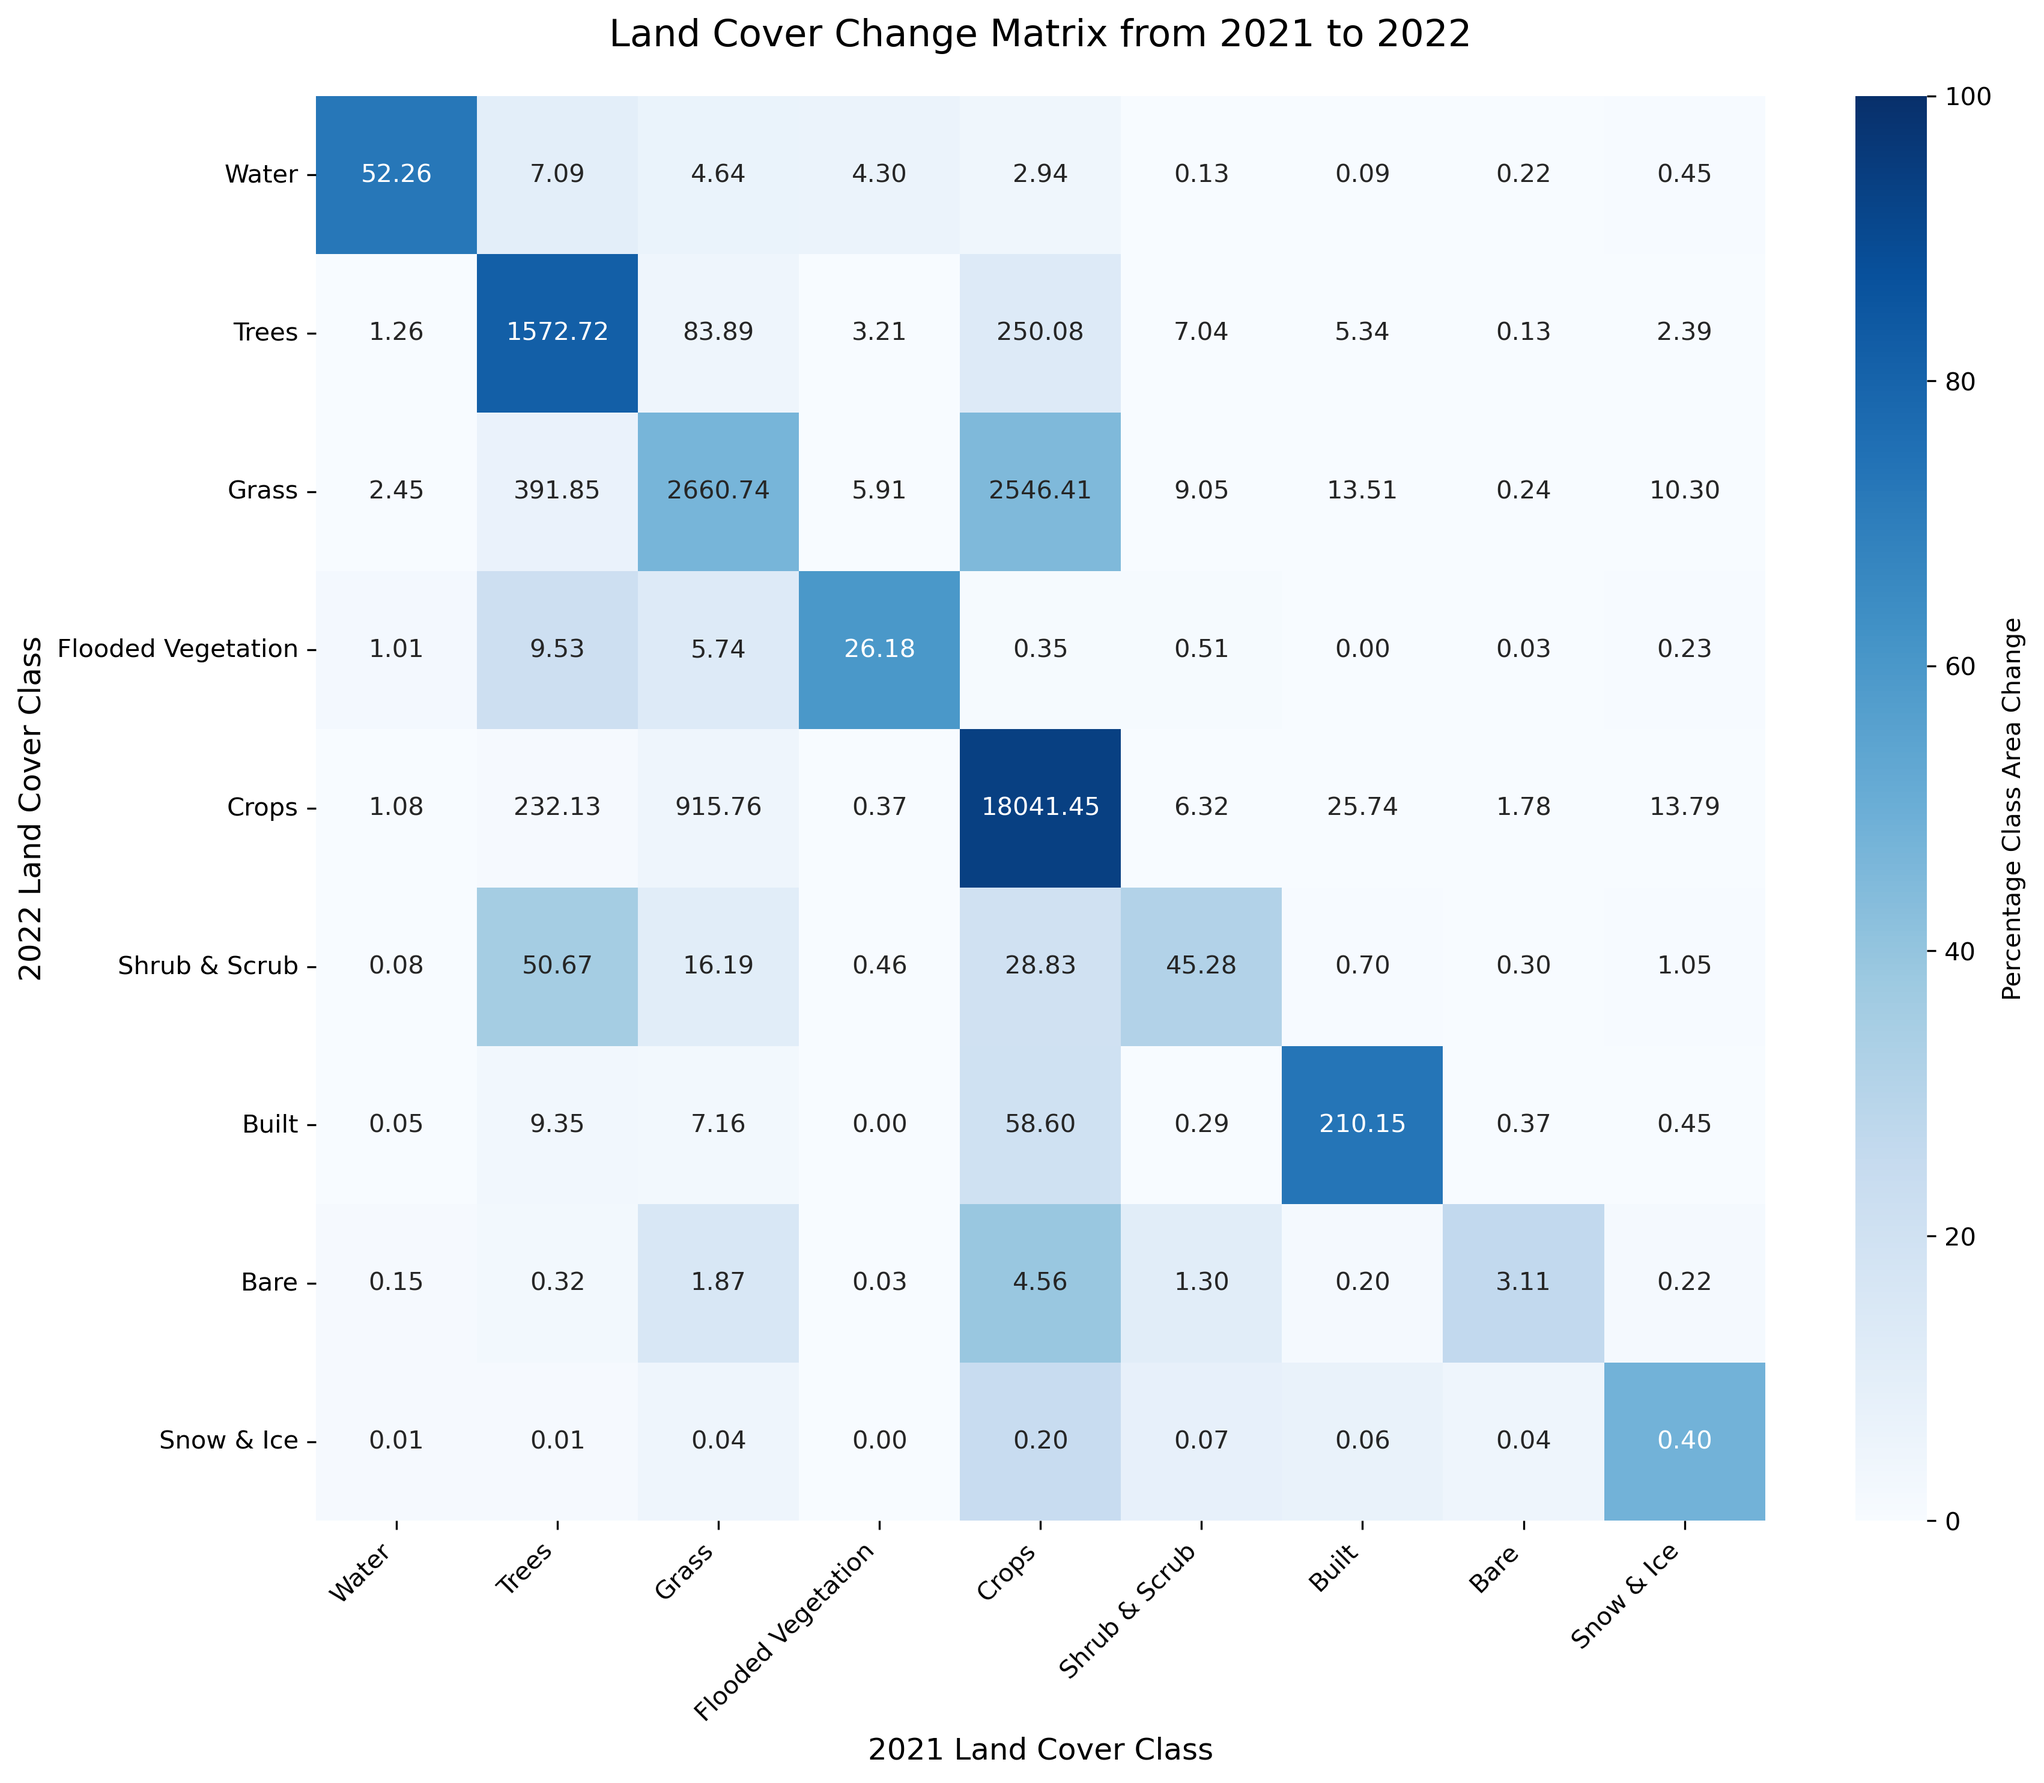
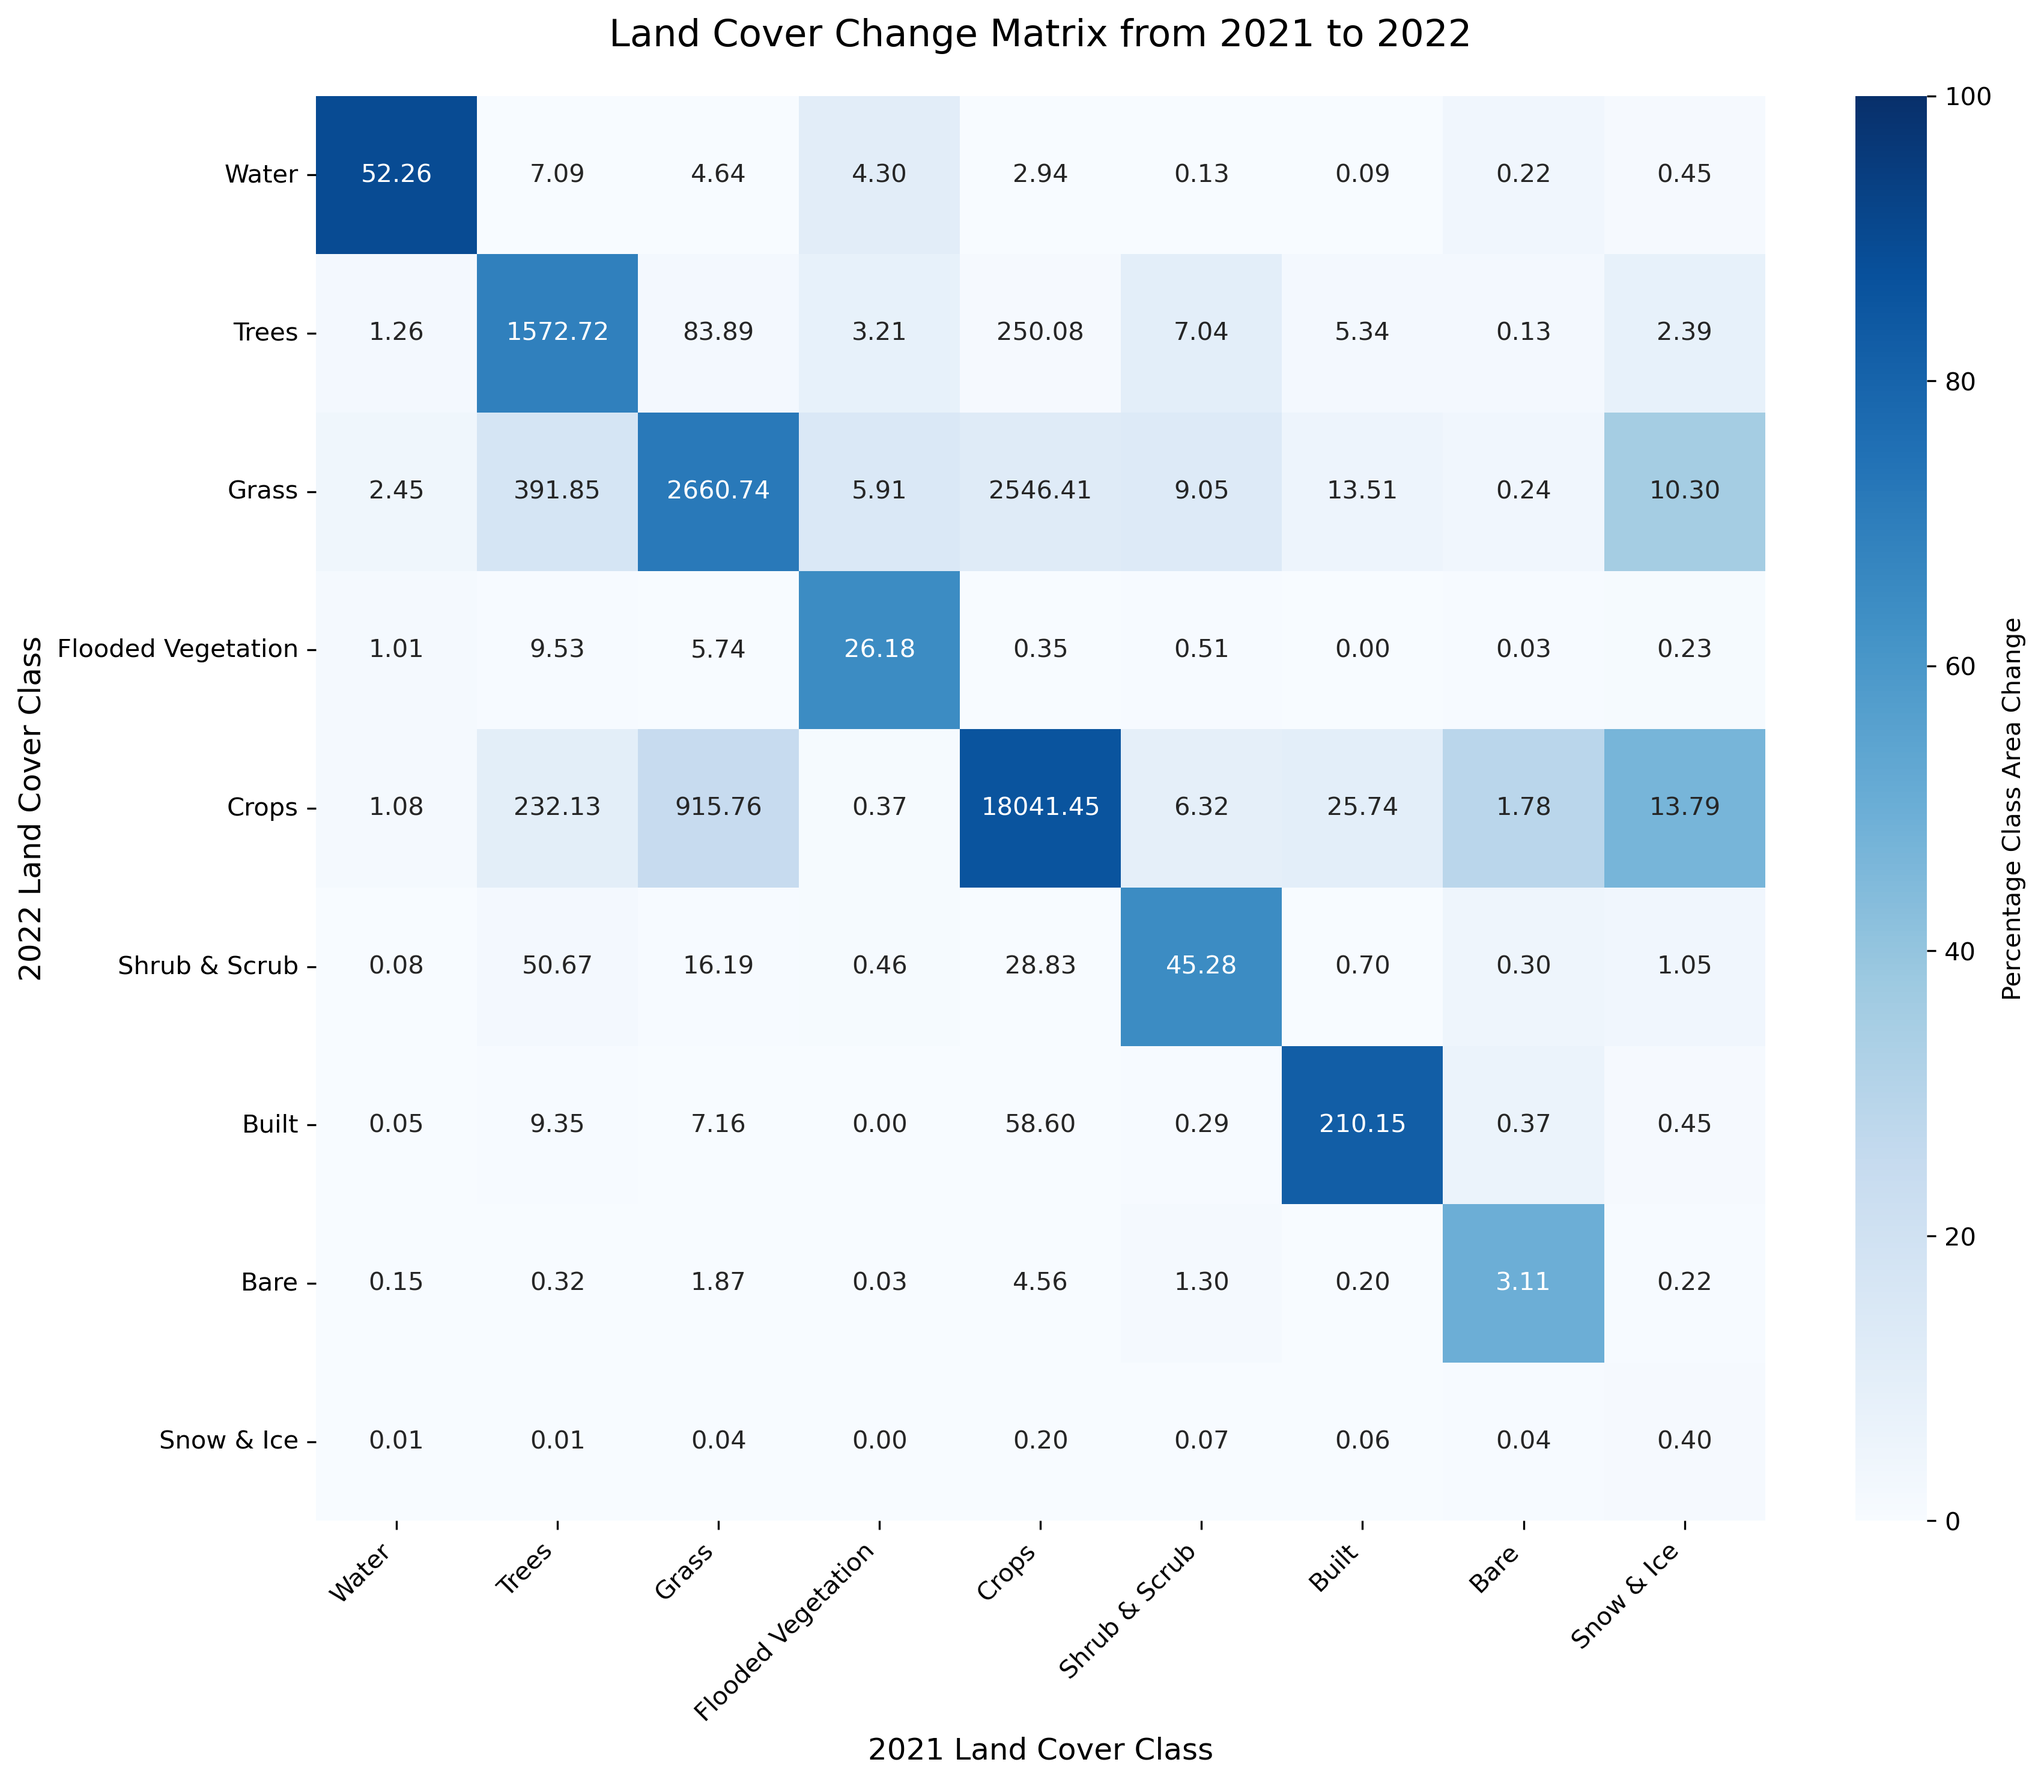
More Results

diff --git a/plot.py b/plot.py
@@ -3,11 +3,11 @@ import seaborn as sns
 import matplotlib.pyplot as plt
 
 def plot_change_matrix(year):
-    df = pd.read_csv('Results/ChangeMatrix' + str(year - 1) + '_' + str(year) + ".csv", index_col=0)
+    df = pd.read_csv('Results/ChangeMatrix20_25.csv', index_col=0)
 
     df_percent = pd.DataFrame()
-    row_sums = df.sum(axis=1)
-    df_percent = df.div(row_sums, axis=0) * 100
+    row_sums = df.sum(axis=0)
+    df_percent = df.div(row_sums, axis=1) * 100
 
     plt.figure(figsize=(12, 10))
     
@@ -19,13 +19,13 @@ def plot_change_matrix(year):
                 vmax=100,
                 cbar_kws={'label': 'Percentage Class Area Change'})
     
-    plt.title("Land Cover Change Matrix from 20" + str(year - 1) + " to 20" + str(year), fontsize=15, pad=20)
-    plt.xlabel("20" + str(year - 1) + " Land Cover Class", fontsize=12)
-    plt.ylabel("20" + str(year) + " Land Cover Class", fontsize=12)
+    plt.title("Land Cover Change Matrix from 2020 to 2025", fontsize=15, pad=20)
+    plt.xlabel("2020 Land Cover Class", fontsize=12)
+    plt.ylabel("2025 Land Cover Class", fontsize=12)
     plt.xticks(rotation=45, ha='right')
     
     plt.tight_layout()
-    plt.savefig('ChangeMatrix/ChangeMatrix' + str(year - 1) + '_' + str(year) + '.png', dpi=300, bbox_inches='tight')
+    plt.savefig('ChangeMatrix/ChangeMatrix20_25.png', dpi=300, bbox_inches='tight')
 
 def plot_change_count():
     df = pd.read_csv('Results/ChangeCountNoRSC20_25.csv', header=None, names=['Changes', 'Value'])
@@ -89,4 +89,4 @@ def plot_classifications_comparison():
     plt.tight_layout()
     plt.savefig('classifications_daa_comparison.png')
 
-plot_change_matrix(22)
+plot_change_matrix(21)

diff --git a/most_common_transtions.py b/most_common_transtions.py
@@ -1,0 +1,35 @@
+import pandas as pd
+import glob
+
+# 1. Get a list of all your transition CSV files
+# Adjust the pattern if your files have a specific naming convention (e.g., 'transition_*.csv')
+file_list = glob.glob("Results/ChangeMatrix2*.csv")
+
+# 2. Load and sum the dataframes
+# We use index_col=0 because the first column contains the 'From' class names
+dfs = [pd.read_csv(f, index_col=0) for f in file_list]
+combined_df = sum(dfs)
+
+# 3. Reshape the data to find the most common transitions
+# This converts the matrix into a list of: [Source Class, Target Class, Total Count]
+melted = combined_df.stack().reset_index()
+melted.columns = ['From_Class', 'To_Class', 'Total_Count']
+
+# 4. Identify most common transitions (excluding self-transitions/stability)
+# We filter out cases where 'From' is the same as 'To' to see actual changes
+changes_only = melted[melted['From_Class'] != melted['To_Class']]
+top_changes = changes_only.sort_values(by='Total_Count', ascending=False)
+
+# 5. Identify the most common stability (staying the same class)
+stability = melted[melted['From_Class'] == melted['To_Class']]
+top_stability = stability.sort_values(by='Total_Count', ascending=False)
+
+# Output results
+print("--- Top 15 Most Common Transitions (Changes) ---")
+print(top_changes.head(15))
+
+print("\n--- Top 15 Most Common Stability (No Change) ---")
+print(top_stability.head(15))
+
+# Optional: Save the combined matrix to a new file
+combined_df.to_csv("summed_transitions.csv")
